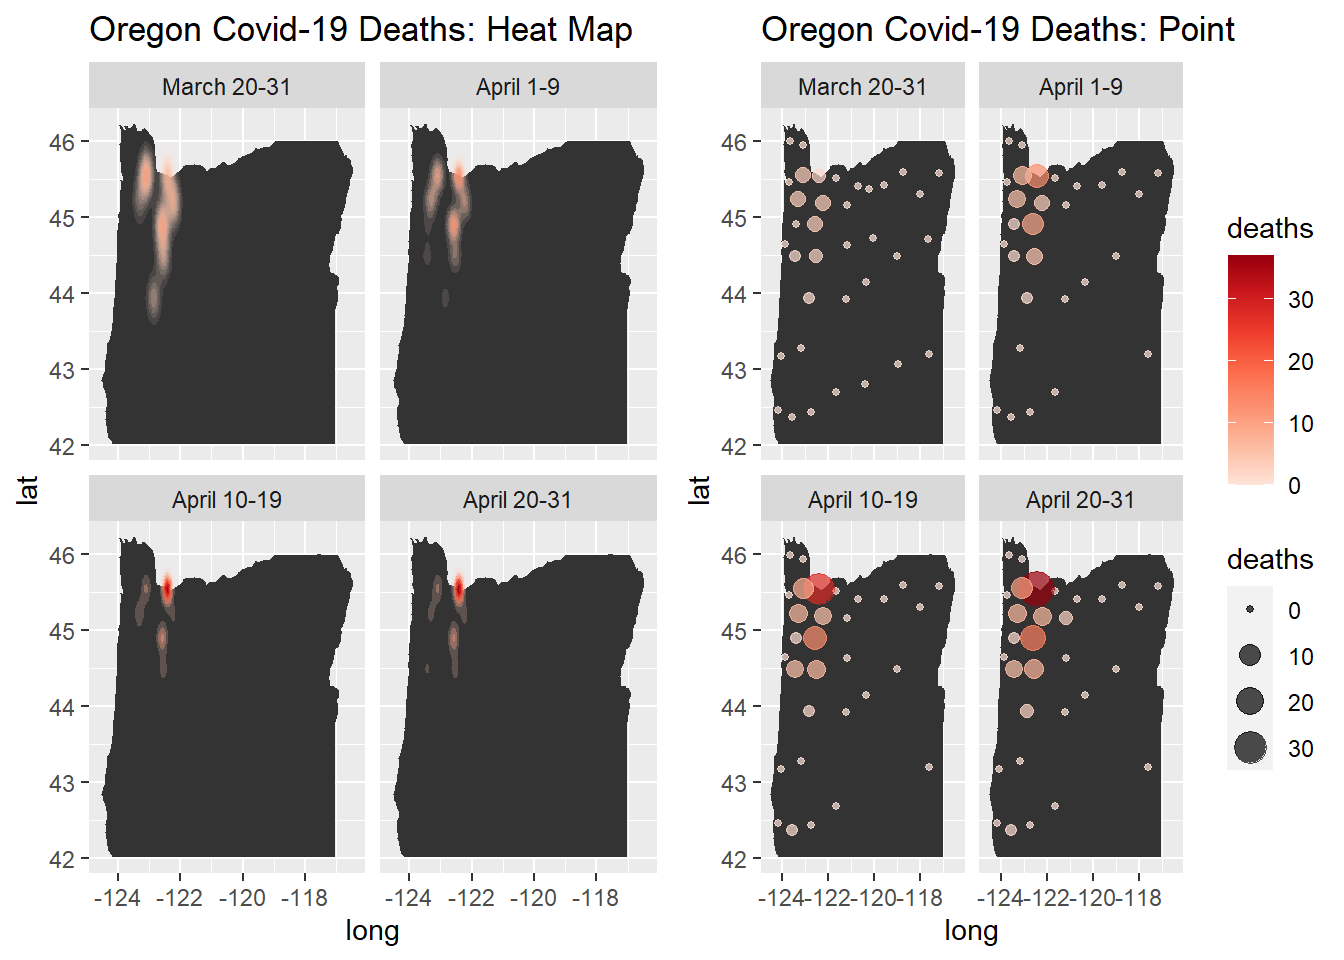
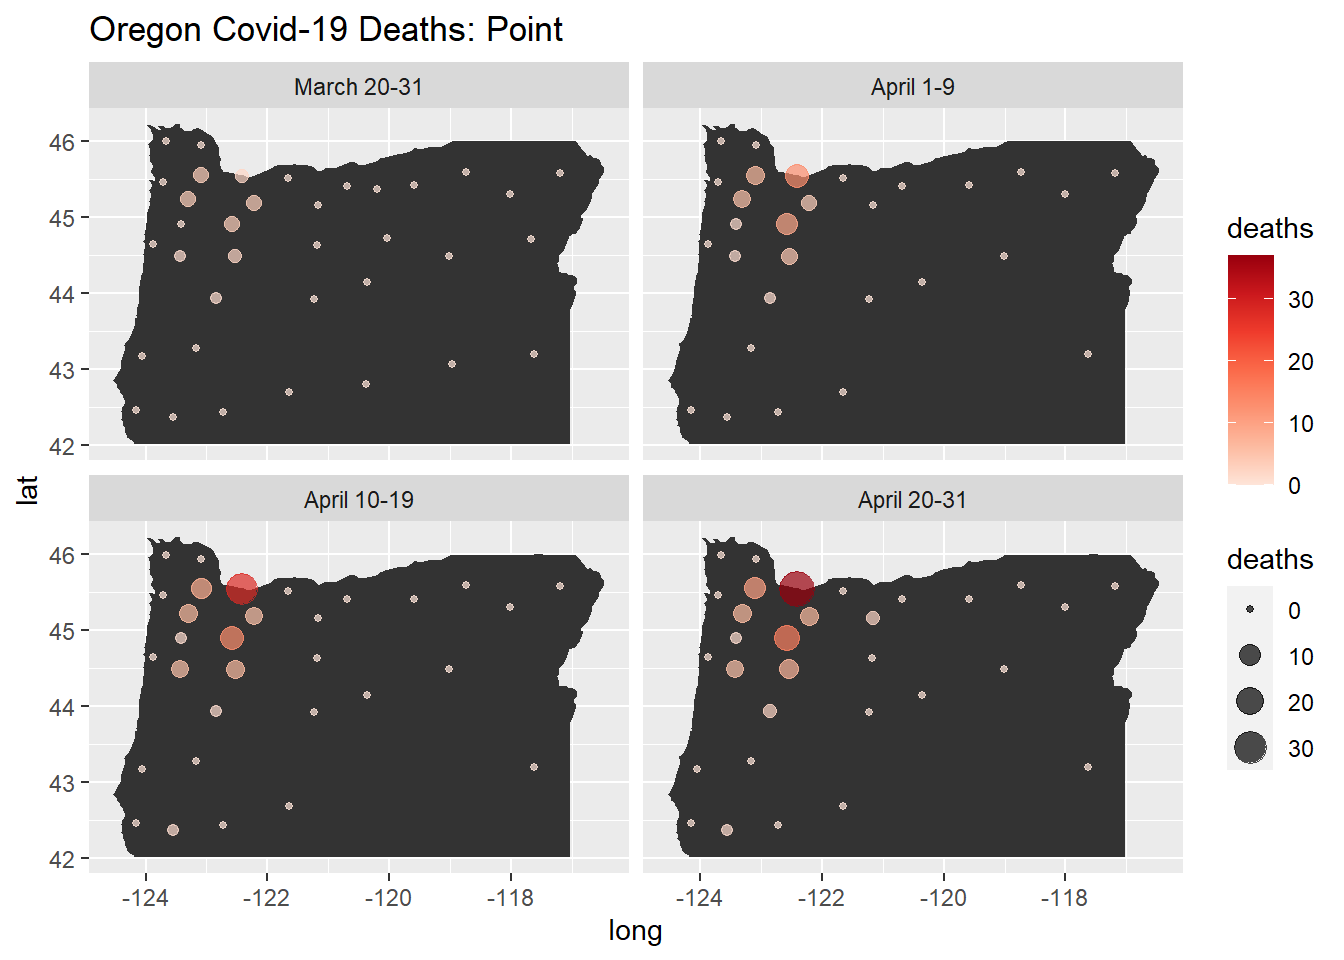
Finished session3 blogpost

diff --git a/blog/public/2020/04/27/mapping-covid-19-cases-in-oregon/index.html b/blog/public/2020/04/27/mapping-covid-19-cases-in-oregon/index.html
@@ -64,7 +64,7 @@
 
   <article class="article">
     
-    <span class="article-duration">10 min read</span>
+    <span class="article-duration">11 min read</span>
     
 
     <h1 class="article-title">Mapping COVID-19 Cases in Oregon</h1>
@@ -175,6 +175,9 @@ the records that adhere to this convention.</p>
 <pre class="r"><code>covid.OR&lt;-full.dt[which(full.dt$province_state ==&#39;Oregon&#39; &amp;  !is.na(full.dt$latitude) &amp; 
                           !is.na(full.dt$admin2)
                         ), ]</code></pre>
+</div>
+<div id="examine-change-over-time" class="section level2">
+<h2>Examine Change Over Time</h2>
 <p>Now that we’ve filtered the dataset to just the Oregon cases, we will split them by date (<code>last_update</code>)
 and group them into 10-day intervals for plotting. As Kelsey mentioned in the session, 7-day (1-week)
 intervals would have worked just as well. The length of the interval we choose isn’t terribly important –
@@ -228,6 +231,9 @@ covid.OR[covid.OR$last_update %&gt;% format(., &quot;%d&quot;) %in% 20:31,]$peri
 
 # Create factor levels for ggplot facet wrap
 covid.OR$period&lt;-covid.OR$period %&gt;% factor(levels = unique(.))</code></pre>
+</div>
+<div id="plotting-the-data" class="section level2">
+<h2>Plotting the Data</h2>
 <p>Next, we filter the dataset further to include only the columns we need to generate a mapped product.
 We need the variable of interest to plot, in this case the number of COVID-19-related deaths in Oregon,
 so we will keep the <code>deaths</code> column. Since we are creating a map, we of course need geographic coordinates,
@@ -284,15 +290,8 @@ to generate a nice Oregon-shaped polygon and then use our old friend <code>ggplo
 and heat maps of the dataset.</p>
 <pre class="r"><code># Generate a map of Oregon to plot the COVID data on using &#39;maps&#39; package
 all_states&lt;-map_data(&#39;state&#39;)
-head(all_states)</code></pre>
-<pre><code>##        long      lat group order  region subregion
-## 1 -87.46201 30.38968     1     1 alabama      &lt;NA&gt;
-## 2 -87.48493 30.37249     1     2 alabama      &lt;NA&gt;
-## 3 -87.52503 30.37249     1     3 alabama      &lt;NA&gt;
-## 4 -87.53076 30.33239     1     4 alabama      &lt;NA&gt;
-## 5 -87.57087 30.32665     1     5 alabama      &lt;NA&gt;
-## 6 -87.58806 30.32665     1     6 alabama      &lt;NA&gt;</code></pre>
-<pre class="r"><code>Oregon&lt;-all_states[all_states$region==&#39;oregon&#39;,]
+
+Oregon&lt;-all_states[all_states$region==&#39;oregon&#39;,]
 p &lt;- ggplot() +
   geom_polygon(data=Oregon, aes(x=long, y=lat))
 print(p)</code></pre>
@@ -324,13 +323,99 @@ COVID.point.map &lt;- p + geom_point(data=subset.summary, aes(x=longitude, y=lat
   ggtitle(&quot;Oregon Covid-19 Deaths: Point&quot;) +
   scale_color_gradientn(colours=brewer.pal(7, &quot;Reds&quot;)) + 
   facet_wrap(~period)
-# print(COVID.point.map)
-
-# Plot both maps next to each other and compare using the gridExtra package
+print(COVID.point.map)</code></pre>
+<p><img src="/post/session3/mapping-oregon-cases_files/figure-html/map-deaths-5.png" width="672" /></p>
+<pre class="r"><code># Plot both maps next to each other and compare using the gridExtra package
 # deaths &lt;-grid.arrange(COVID.heat.map, COVID.point.map, ncol = 2)</code></pre>
 <p>Here are both maps plotted together:</p>
-<p><img src="/post/session3/mapping-oregon-cases_files/figure-html/print-heatmaps-1.png" width="672" /><img src="/post/session3/mapping-oregon-cases_files/figure-html/print-heatmaps-2.png" width="672" /></p>
+<p><img src="/post/session3/mapping-oregon-cases_files/figure-html/print-maps-deaths-1.png" width="672" /><img src="/post/session3/mapping-oregon-cases_files/figure-html/print-maps-deaths-2.png" width="672" /></p>
 <hr />
+</div>
+<div id="mapping-active-and-confirmed-cases" class="section level2">
+<h2>Mapping Active and Confirmed Cases</h2>
+<p>The rest of the code is more or less replicating what we’ve done above for the <code>confirmed</code> and
+<code>active</code> cases.</p>
+<div id="confirmed-cases" class="section level3">
+<h3>Confirmed Cases</h3>
+<pre class="r"><code>#Now for confirmed cases
+subset.c&lt;-covid.OR[,c(&#39;confirmed&#39;,&#39;latitude&#39;, &#39;longitude&#39;, &#39;period&#39;)]
+subset.expanded.c &lt;- subset.c[rep(1:nrow(subset.c), subset.c$confirmed)]
+subset.summary.c&lt;- subset.c[,.(confirmed=max(confirmed)), by=c(&#39;period&#39;,&#39;latitude&#39;, &#39;longitude&#39;)]
+
+## Plot a heat map layer: Polygons with fill colors based on
+## relative frequency of events which we created by replicating rows by the number of events.
+confirmed.heat.map &lt;- p + 
+  stat_density2d(data=subset.expanded.c, aes(x=longitude, y=latitude, fill=..level.., 
+                                             alpha=..level..), geom=&quot;polygon&quot;) +
+  scale_fill_gradientn(colours=brewer.pal(7, &quot;Reds&quot;)) +
+  theme(legend.position = &#39;none&#39;) +
+  ggtitle(&quot;Oregon Confirmed Covid-19 Cases: Heat Map&quot;) +
+  facet_wrap(~period)
+
+print(confirmed.heat.map)</code></pre>
+<p><img src="/post/session3/mapping-oregon-cases_files/figure-html/map-confirmed-1.png" width="672" /></p>
+<pre class="r"><code>confirmed.point.map &lt;-p +
+  geom_point(data=subset.summary.c, aes(x=longitude, y=latitude, size=confirmed, color=confirmed),
+             alpha = 0.7)+
+  scale_color_gradientn(colours=brewer.pal(7, &quot;Reds&quot;)) +
+  ggtitle(&quot;Oregon Confirmed Covid-19 Cases: Heat Map&quot;) +
+  facet_wrap(~period)
+print(confirmed.point.map)</code></pre>
+<p><img src="/post/session3/mapping-oregon-cases_files/figure-html/map-confirmed-2.png" width="672" /></p>
+<pre class="r"><code># Plot both maps next to each other and compare using the gridExtra package
+# confirmed &lt;- grid.arrange(confirmed.heat.map, confirmed.point.map, ncol = 2)</code></pre>
+<p><img src="/post/session3/mapping-oregon-cases_files/figure-html/print-maps-confirmed-1.png" width="672" /><img src="/post/session3/mapping-oregon-cases_files/figure-html/print-maps-confirmed-2.png" width="672" /></p>
+</div>
+<div id="active-cases" class="section level3">
+<h3>Active Cases</h3>
+<pre class="r"><code>#Now for active cases
+subset.a&lt;-covid.OR[,c(&#39;active&#39;,&#39;latitude&#39;, &#39;longitude&#39;, &#39;period&#39;)]
+subset.expanded.a &lt;- subset.a[rep(1:nrow(subset.a), subset.a$active)]
+subset.summary.a&lt;- subset.a[,.(active=max(active)), by=c(&#39;period&#39;,&#39;latitude&#39;, &#39;longitude&#39;)]
+
+## Plot a heat map layer: Polygons with fill colors based on
+## relative frequency of events which we created by replicating rows by the number of events.
+active.heat.map &lt;- p + 
+  stat_density2d(data=subset.expanded.a, aes(x=longitude, y=latitude, fill=..level.., 
+                                             alpha=..level..), geom=&quot;polygon&quot;) +
+  scale_fill_gradientn(colours=brewer.pal(7, &quot;Reds&quot;)) +
+  theme(legend.position = &#39;none&#39;) +
+  ggtitle(&quot;Oregon Active Covid-19 Cases: Heat Map&quot;) +
+  facet_wrap(~period)
+
+print(active.heat.map)</code></pre>
+<p><img src="/post/session3/mapping-oregon-cases_files/figure-html/map-active-1.png" width="672" /></p>
+<pre class="r"><code>active.point.map &lt;-p +
+  geom_point(data=subset.summary.a, aes(x=longitude, y=latitude, size=active, color=active),
+             alpha = 0.7)+
+  scale_color_gradientn(colours=brewer.pal(7, &quot;Reds&quot;)) +
+  ggtitle(&quot;Oregon Active Covid-19 Cases: Heat Map&quot;) +
+  facet_wrap(~period)
+print(active.point.map)</code></pre>
+<p><img src="/post/session3/mapping-oregon-cases_files/figure-html/map-active-2.png" width="672" /></p>
+<pre class="r"><code># Plot both maps next to each other and compare using the gridExtra package
+# active &lt;- grid.arrange(active.heat.map, active.point.map, ncol = 2)
+
+# Redo the last one and adjust periods so your maps aren&#39;t scrunchie
+active.point.map &lt;-p +
+  geom_point(data=subset.summary.a[subset.summary.a$period %in% c(&#39;April 10-19&#39;, &#39;April 20-31&#39;),], 
+             aes(x=longitude, y=latitude, size=active, color=active),alpha = 0.7)+
+  scale_color_gradientn(colours=brewer.pal(7, &quot;Reds&quot;)) +
+  ggtitle(&quot;Oregon Active Covid-19 Cases: Heat Map&quot;) +
+  facet_wrap(~period)
+print(active.point.map)</code></pre>
+<p><img src="/post/session3/mapping-oregon-cases_files/figure-html/map-active-3.png" width="672" /></p>
+<pre class="r"><code># Plot both maps next to each other and compare using the gridExtra package
+# active &lt;- grid.arrange(active.heat.map, active.point.map, ncol = 2)</code></pre>
+<p><img src="/post/session3/mapping-oregon-cases_files/figure-html/print-maps-active-1.png" width="672" /><img src="/post/session3/mapping-oregon-cases_files/figure-html/print-maps-active-2.png" width="672" /></p>
+<hr />
+<p>This last bit of code wraps all the plots into a tidy little image file that you can email to your
+parents or S.O. to show them all the sweet GIS and coding skills you now have!</p>
+<pre class="r"><code>#Plot all maps together :)
+all_maps &lt;- grid.arrange(deaths, confirmed, active, nrow = 3)
+ggsave(plot=all_maps, file.path(git.path,&#39;covid_maps.jpeg&#39;), height = 11, width = 10)</code></pre>
+<hr />
+</div>
 </div>
 <div id="further-reading" class="section level2">
 <h2>Further Reading</h2>

diff --git a/blog/content/post/session3/mapping-oregon-cases.html b/blog/content/post/session3/mapping-oregon-cases.html
@@ -105,6 +105,9 @@ the records that adhere to this convention.</p>
 <pre class="r"><code>covid.OR&lt;-full.dt[which(full.dt$province_state ==&#39;Oregon&#39; &amp;  !is.na(full.dt$latitude) &amp; 
                           !is.na(full.dt$admin2)
                         ), ]</code></pre>
+</div>
+<div id="examine-change-over-time" class="section level2">
+<h2>Examine Change Over Time</h2>
 <p>Now that we’ve filtered the dataset to just the Oregon cases, we will split them by date (<code>last_update</code>)
 and group them into 10-day intervals for plotting. As Kelsey mentioned in the session, 7-day (1-week)
 intervals would have worked just as well. The length of the interval we choose isn’t terribly important –
@@ -158,6 +161,9 @@ covid.OR[covid.OR$last_update %&gt;% format(., &quot;%d&quot;) %in% 20:31,]$peri
 
 # Create factor levels for ggplot facet wrap
 covid.OR$period&lt;-covid.OR$period %&gt;% factor(levels = unique(.))</code></pre>
+</div>
+<div id="plotting-the-data" class="section level2">
+<h2>Plotting the Data</h2>
 <p>Next, we filter the dataset further to include only the columns we need to generate a mapped product.
 We need the variable of interest to plot, in this case the number of COVID-19-related deaths in Oregon,
 so we will keep the <code>deaths</code> column. Since we are creating a map, we of course need geographic coordinates,
@@ -214,15 +220,8 @@ to generate a nice Oregon-shaped polygon and then use our old friend <code>ggplo
 and heat maps of the dataset.</p>
 <pre class="r"><code># Generate a map of Oregon to plot the COVID data on using &#39;maps&#39; package
 all_states&lt;-map_data(&#39;state&#39;)
-head(all_states)</code></pre>
-<pre><code>##        long      lat group order  region subregion
-## 1 -87.46201 30.38968     1     1 alabama      &lt;NA&gt;
-## 2 -87.48493 30.37249     1     2 alabama      &lt;NA&gt;
-## 3 -87.52503 30.37249     1     3 alabama      &lt;NA&gt;
-## 4 -87.53076 30.33239     1     4 alabama      &lt;NA&gt;
-## 5 -87.57087 30.32665     1     5 alabama      &lt;NA&gt;
-## 6 -87.58806 30.32665     1     6 alabama      &lt;NA&gt;</code></pre>
-<pre class="r"><code>Oregon&lt;-all_states[all_states$region==&#39;oregon&#39;,]
+
+Oregon&lt;-all_states[all_states$region==&#39;oregon&#39;,]
 p &lt;- ggplot() +
   geom_polygon(data=Oregon, aes(x=long, y=lat))
 print(p)</code></pre>
@@ -254,13 +253,99 @@ COVID.point.map &lt;- p + geom_point(data=subset.summary, aes(x=longitude, y=lat
   ggtitle(&quot;Oregon Covid-19 Deaths: Point&quot;) +
   scale_color_gradientn(colours=brewer.pal(7, &quot;Reds&quot;)) + 
   facet_wrap(~period)
-# print(COVID.point.map)
-
-# Plot both maps next to each other and compare using the gridExtra package
+print(COVID.point.map)</code></pre>
+<p><img src="/post/session3/mapping-oregon-cases_files/figure-html/map-deaths-5.png" width="672" /></p>
+<pre class="r"><code># Plot both maps next to each other and compare using the gridExtra package
 # deaths &lt;-grid.arrange(COVID.heat.map, COVID.point.map, ncol = 2)</code></pre>
 <p>Here are both maps plotted together:</p>
-<p><img src="/post/session3/mapping-oregon-cases_files/figure-html/print-heatmaps-1.png" width="672" /><img src="/post/session3/mapping-oregon-cases_files/figure-html/print-heatmaps-2.png" width="672" /></p>
+<p><img src="/post/session3/mapping-oregon-cases_files/figure-html/print-maps-deaths-1.png" width="672" /><img src="/post/session3/mapping-oregon-cases_files/figure-html/print-maps-deaths-2.png" width="672" /></p>
 <hr />
+</div>
+<div id="mapping-active-and-confirmed-cases" class="section level2">
+<h2>Mapping Active and Confirmed Cases</h2>
+<p>The rest of the code is more or less replicating what we’ve done above for the <code>confirmed</code> and
+<code>active</code> cases.</p>
+<div id="confirmed-cases" class="section level3">
+<h3>Confirmed Cases</h3>
+<pre class="r"><code>#Now for confirmed cases
+subset.c&lt;-covid.OR[,c(&#39;confirmed&#39;,&#39;latitude&#39;, &#39;longitude&#39;, &#39;period&#39;)]
+subset.expanded.c &lt;- subset.c[rep(1:nrow(subset.c), subset.c$confirmed)]
+subset.summary.c&lt;- subset.c[,.(confirmed=max(confirmed)), by=c(&#39;period&#39;,&#39;latitude&#39;, &#39;longitude&#39;)]
+
+## Plot a heat map layer: Polygons with fill colors based on
+## relative frequency of events which we created by replicating rows by the number of events.
+confirmed.heat.map &lt;- p + 
+  stat_density2d(data=subset.expanded.c, aes(x=longitude, y=latitude, fill=..level.., 
+                                             alpha=..level..), geom=&quot;polygon&quot;) +
+  scale_fill_gradientn(colours=brewer.pal(7, &quot;Reds&quot;)) +
+  theme(legend.position = &#39;none&#39;) +
+  ggtitle(&quot;Oregon Confirmed Covid-19 Cases: Heat Map&quot;) +
+  facet_wrap(~period)
+
+print(confirmed.heat.map)</code></pre>
+<p><img src="/post/session3/mapping-oregon-cases_files/figure-html/map-confirmed-1.png" width="672" /></p>
+<pre class="r"><code>confirmed.point.map &lt;-p +
+  geom_point(data=subset.summary.c, aes(x=longitude, y=latitude, size=confirmed, color=confirmed),
+             alpha = 0.7)+
+  scale_color_gradientn(colours=brewer.pal(7, &quot;Reds&quot;)) +
+  ggtitle(&quot;Oregon Confirmed Covid-19 Cases: Heat Map&quot;) +
+  facet_wrap(~period)
+print(confirmed.point.map)</code></pre>
+<p><img src="/post/session3/mapping-oregon-cases_files/figure-html/map-confirmed-2.png" width="672" /></p>
+<pre class="r"><code># Plot both maps next to each other and compare using the gridExtra package
+# confirmed &lt;- grid.arrange(confirmed.heat.map, confirmed.point.map, ncol = 2)</code></pre>
+<p><img src="/post/session3/mapping-oregon-cases_files/figure-html/print-maps-confirmed-1.png" width="672" /><img src="/post/session3/mapping-oregon-cases_files/figure-html/print-maps-confirmed-2.png" width="672" /></p>
+</div>
+<div id="active-cases" class="section level3">
+<h3>Active Cases</h3>
+<pre class="r"><code>#Now for active cases
+subset.a&lt;-covid.OR[,c(&#39;active&#39;,&#39;latitude&#39;, &#39;longitude&#39;, &#39;period&#39;)]
+subset.expanded.a &lt;- subset.a[rep(1:nrow(subset.a), subset.a$active)]
+subset.summary.a&lt;- subset.a[,.(active=max(active)), by=c(&#39;period&#39;,&#39;latitude&#39;, &#39;longitude&#39;)]
+
+## Plot a heat map layer: Polygons with fill colors based on
+## relative frequency of events which we created by replicating rows by the number of events.
+active.heat.map &lt;- p + 
+  stat_density2d(data=subset.expanded.a, aes(x=longitude, y=latitude, fill=..level.., 
+                                             alpha=..level..), geom=&quot;polygon&quot;) +
+  scale_fill_gradientn(colours=brewer.pal(7, &quot;Reds&quot;)) +
+  theme(legend.position = &#39;none&#39;) +
+  ggtitle(&quot;Oregon Active Covid-19 Cases: Heat Map&quot;) +
+  facet_wrap(~period)
+
+print(active.heat.map)</code></pre>
+<p><img src="/post/session3/mapping-oregon-cases_files/figure-html/map-active-1.png" width="672" /></p>
+<pre class="r"><code>active.point.map &lt;-p +
+  geom_point(data=subset.summary.a, aes(x=longitude, y=latitude, size=active, color=active),
+             alpha = 0.7)+
+  scale_color_gradientn(colours=brewer.pal(7, &quot;Reds&quot;)) +
+  ggtitle(&quot;Oregon Active Covid-19 Cases: Heat Map&quot;) +
+  facet_wrap(~period)
+print(active.point.map)</code></pre>
+<p><img src="/post/session3/mapping-oregon-cases_files/figure-html/map-active-2.png" width="672" /></p>
+<pre class="r"><code># Plot both maps next to each other and compare using the gridExtra package
+# active &lt;- grid.arrange(active.heat.map, active.point.map, ncol = 2)
+
+# Redo the last one and adjust periods so your maps aren&#39;t scrunchie
+active.point.map &lt;-p +
+  geom_point(data=subset.summary.a[subset.summary.a$period %in% c(&#39;April 10-19&#39;, &#39;April 20-31&#39;),], 
+             aes(x=longitude, y=latitude, size=active, color=active),alpha = 0.7)+
+  scale_color_gradientn(colours=brewer.pal(7, &quot;Reds&quot;)) +
+  ggtitle(&quot;Oregon Active Covid-19 Cases: Heat Map&quot;) +
+  facet_wrap(~period)
+print(active.point.map)</code></pre>
+<p><img src="/post/session3/mapping-oregon-cases_files/figure-html/map-active-3.png" width="672" /></p>
+<pre class="r"><code># Plot both maps next to each other and compare using the gridExtra package
+# active &lt;- grid.arrange(active.heat.map, active.point.map, ncol = 2)</code></pre>
+<p><img src="/post/session3/mapping-oregon-cases_files/figure-html/print-maps-active-1.png" width="672" /><img src="/post/session3/mapping-oregon-cases_files/figure-html/print-maps-active-2.png" width="672" /></p>
+<hr />
+<p>This last bit of code wraps all the plots into a tidy little image file that you can email to your
+parents or S.O. to show them all the sweet GIS and coding skills you now have!</p>
+<pre class="r"><code>#Plot all maps together :)
+all_maps &lt;- grid.arrange(deaths, confirmed, active, nrow = 3)
+ggsave(plot=all_maps, file.path(git.path,&#39;covid_maps.jpeg&#39;), height = 11, width = 10)</code></pre>
+<hr />
+</div>
 </div>
 <div id="further-reading" class="section level2">
 <h2>Further Reading</h2>
